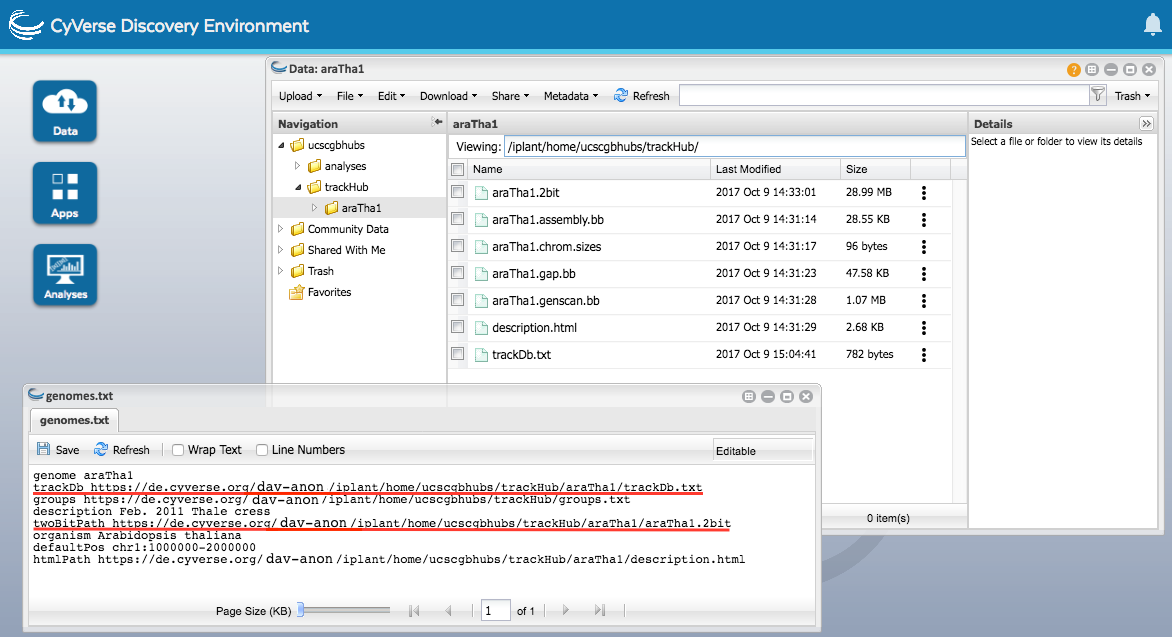
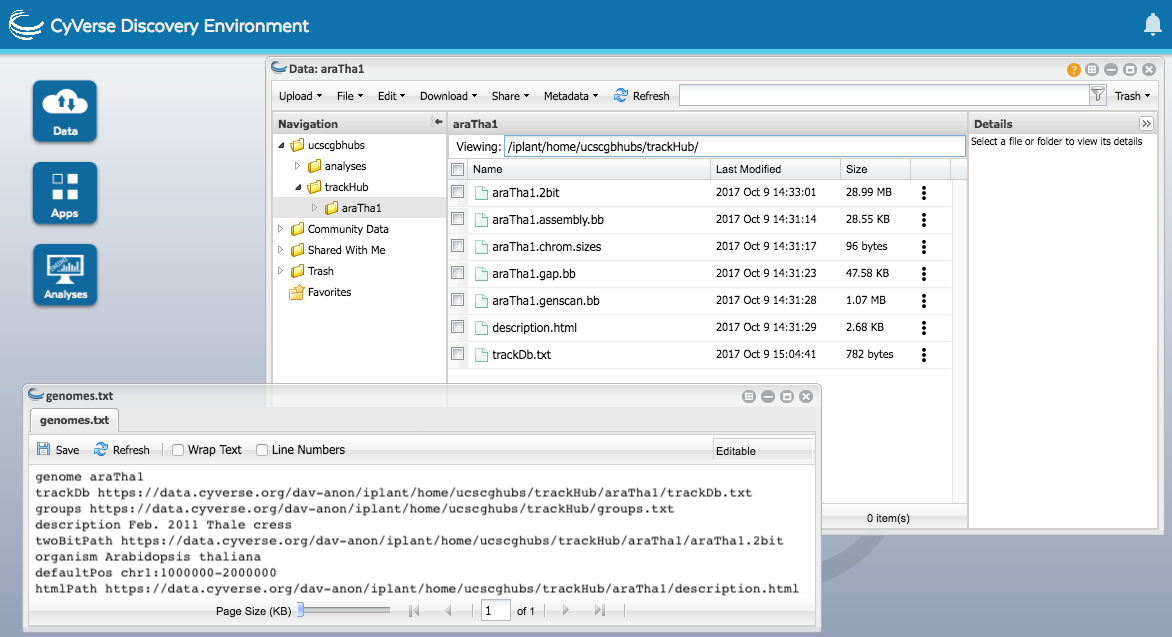
Fixing path to cyVerse files #23921

Changed region(s): [[0.0307, 0.7159, 0.6758, 0.9545]]

diff --git a/src/hg/htdocs/goldenPath/help/hgTrackHubHelp.html b/src/hg/htdocs/goldenPath/help/hgTrackHubHelp.html
@@ -896,7 +896,7 @@ text files to point to CyVerse locations. For example, your <em>hub.txt</em> wil
 like:
 <pre><code>genomesFile genomes.txt</code></pre>
 <p>Which must be edited to point to a CyVerse URL such as:</p>
-<pre><code>genomesFile https://de.cyverse.org/dav-anon/iplant/home/...</code></pre>
+<pre><code>genomesFile https://data.cyverse.org/dav-anon/iplant/home/...</code></pre>
 <p>Luckily, CyVerse allows you to edit these text files after uploading them, so you can create a 
 &quot;Send To: Genome Browser&quot; link:</p>
 <div class="text-center">
